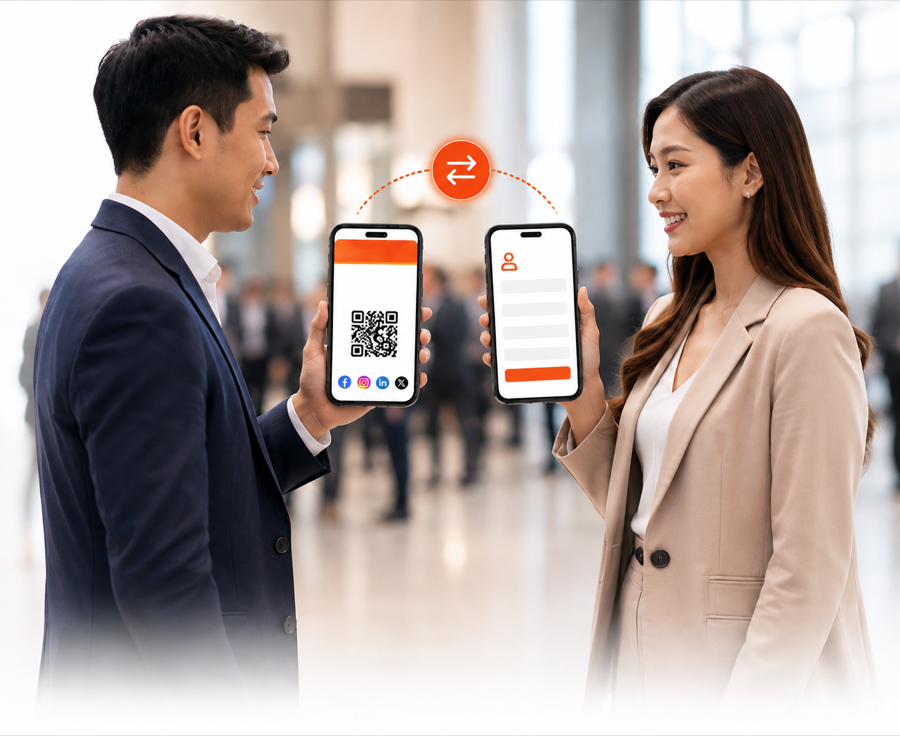
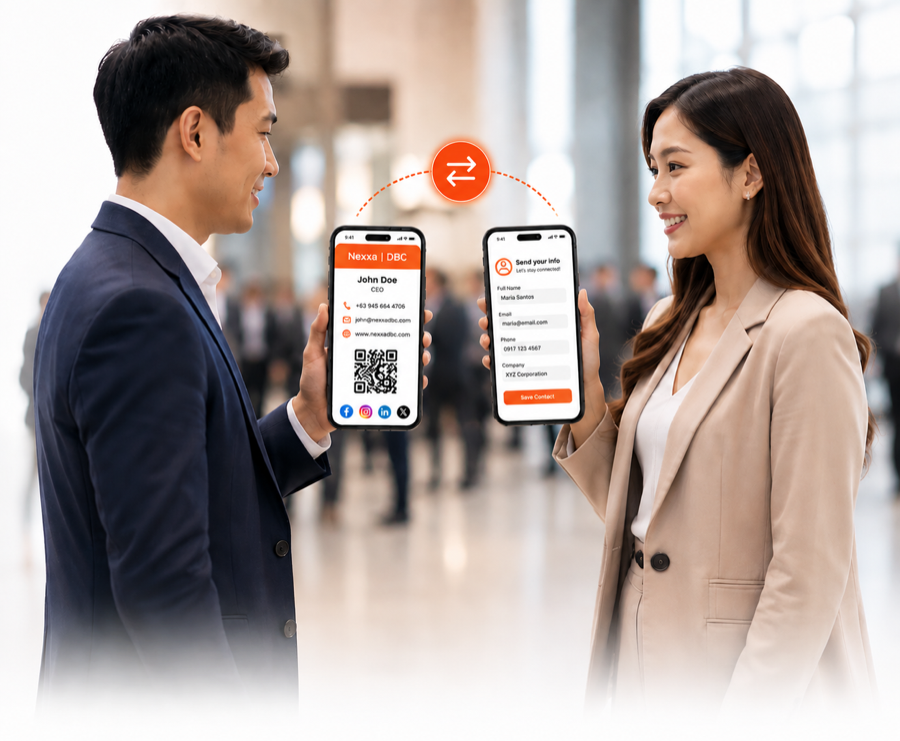
Swap hero photo for the version with baked-in phone screen content
The new photo has real "Nexxa | DBC" card details and a "Send your
info" form already rendered into the image itself, so the manually
positioned text overlays approximating that content are no longer
needed -- removed them.

Also repositions the Total Leads widget per exact pixel measurements
(60px left, 30px up, 25px shorter on screen). The desktop widget lives
inside a block scaled 1.4x, so the requested screen-pixel deltas were
converted to local pre-scale units (divided by 1.4), and the vertical
offset needed a second correction pass once measurement showed the
height reduction (bottom-anchored) was pushing the top edge back down
and mostly canceling the upward translate.

Not deployed -- still local/dev only pending review.

Changed region(s): [[0.3422, 0.2812, 0.4978, 0.5938], [0.5289, 0.2812, 0.6533, 0.5938], [0.4978, 0.2188, 0.5289, 0.25]]

diff --git a/src/pages/Landing.tsx b/src/pages/Landing.tsx
@@ -270,30 +270,15 @@ export default function Landing() {
         className="w-full h-auto"
       />
 
-      {/* Left phone screen overlay: card identity, sits in the blank
-          gap the photo leaves between its baked-in orange header bar
-          and QR code. Coordinates measured directly off the source
-          image's pixels, not eyeballed -- the phone screen is a
-          precise, narrow target. */}
-      <div className="absolute text-white text-center leading-none" style={{ left: "37%", top: "33.1%", width: "9%" }}>
-        <div className="text-[6px] sm:text-[7px] font-bold tracking-tight">Nexxa|DBC</div>
-      </div>
-      <div className="absolute text-center leading-none" style={{ left: "37%", top: "36.6%", width: "9%" }}>
-        <div className="text-[6px] sm:text-[7px] font-semibold text-[var(--color-foreground)]">John Doe</div>
-        <div className="text-[5px] text-[var(--color-muted-fg)] mt-[2px]">CEO</div>
-      </div>
-
-      {/* Right phone screen overlay: lead-capture form heading, in the
-          blank space above the photo's baked-in person icon and field
-          placeholders. */}
-      <div className="absolute text-center leading-none whitespace-nowrap" style={{ left: "54.8%", top: "30.8%", width: "9.5%" }}>
-        <div className="text-[6px] sm:text-[7px] font-semibold text-[var(--color-foreground)]">Send your info</div>
-        <div className="hidden sm:block text-[5px] text-[var(--color-muted-fg)] mt-[2px]">Let&rsquo;s stay connected!</div>
-      </div>
-
       {/* Floating leads-tracking widget: demo data illustrating the
           Real-time Insights feature, not a live figure. */}
-      <div className="absolute -bottom-4 right-0 sm:right-4 bg-white rounded-2xl shadow-xl border border-[var(--color-border-2)] p-5 w-[280px] sm:w-[340px] flex items-stretch gap-4">
+      {/* The lg:-only translate compensates for the 1.4x scale on this
+          whole block's desktop ancestor (see heroPhotoBlock's other
+          usage below) -- a flat 60px/30px on-screen shift needs
+          60/1.4 and 30/1.4 here so it lands correctly post-scale. Left
+          off at the mobile size, which isn't inside that scaled
+          ancestor. */}
+      <div className="absolute -bottom-4 right-0 sm:right-4 bg-white rounded-2xl shadow-xl border border-[var(--color-border-2)] px-5 py-[11px] w-[280px] sm:w-[340px] flex items-stretch gap-4 lg:[transform:translate(-42.86px,-43.1px)]">
         <div className="flex-1 min-w-0">
           <div className="text-[12px] text-[var(--color-muted-fg)]">Total Leads</div>
           <div className="flex items-baseline gap-2 mt-0.5">
